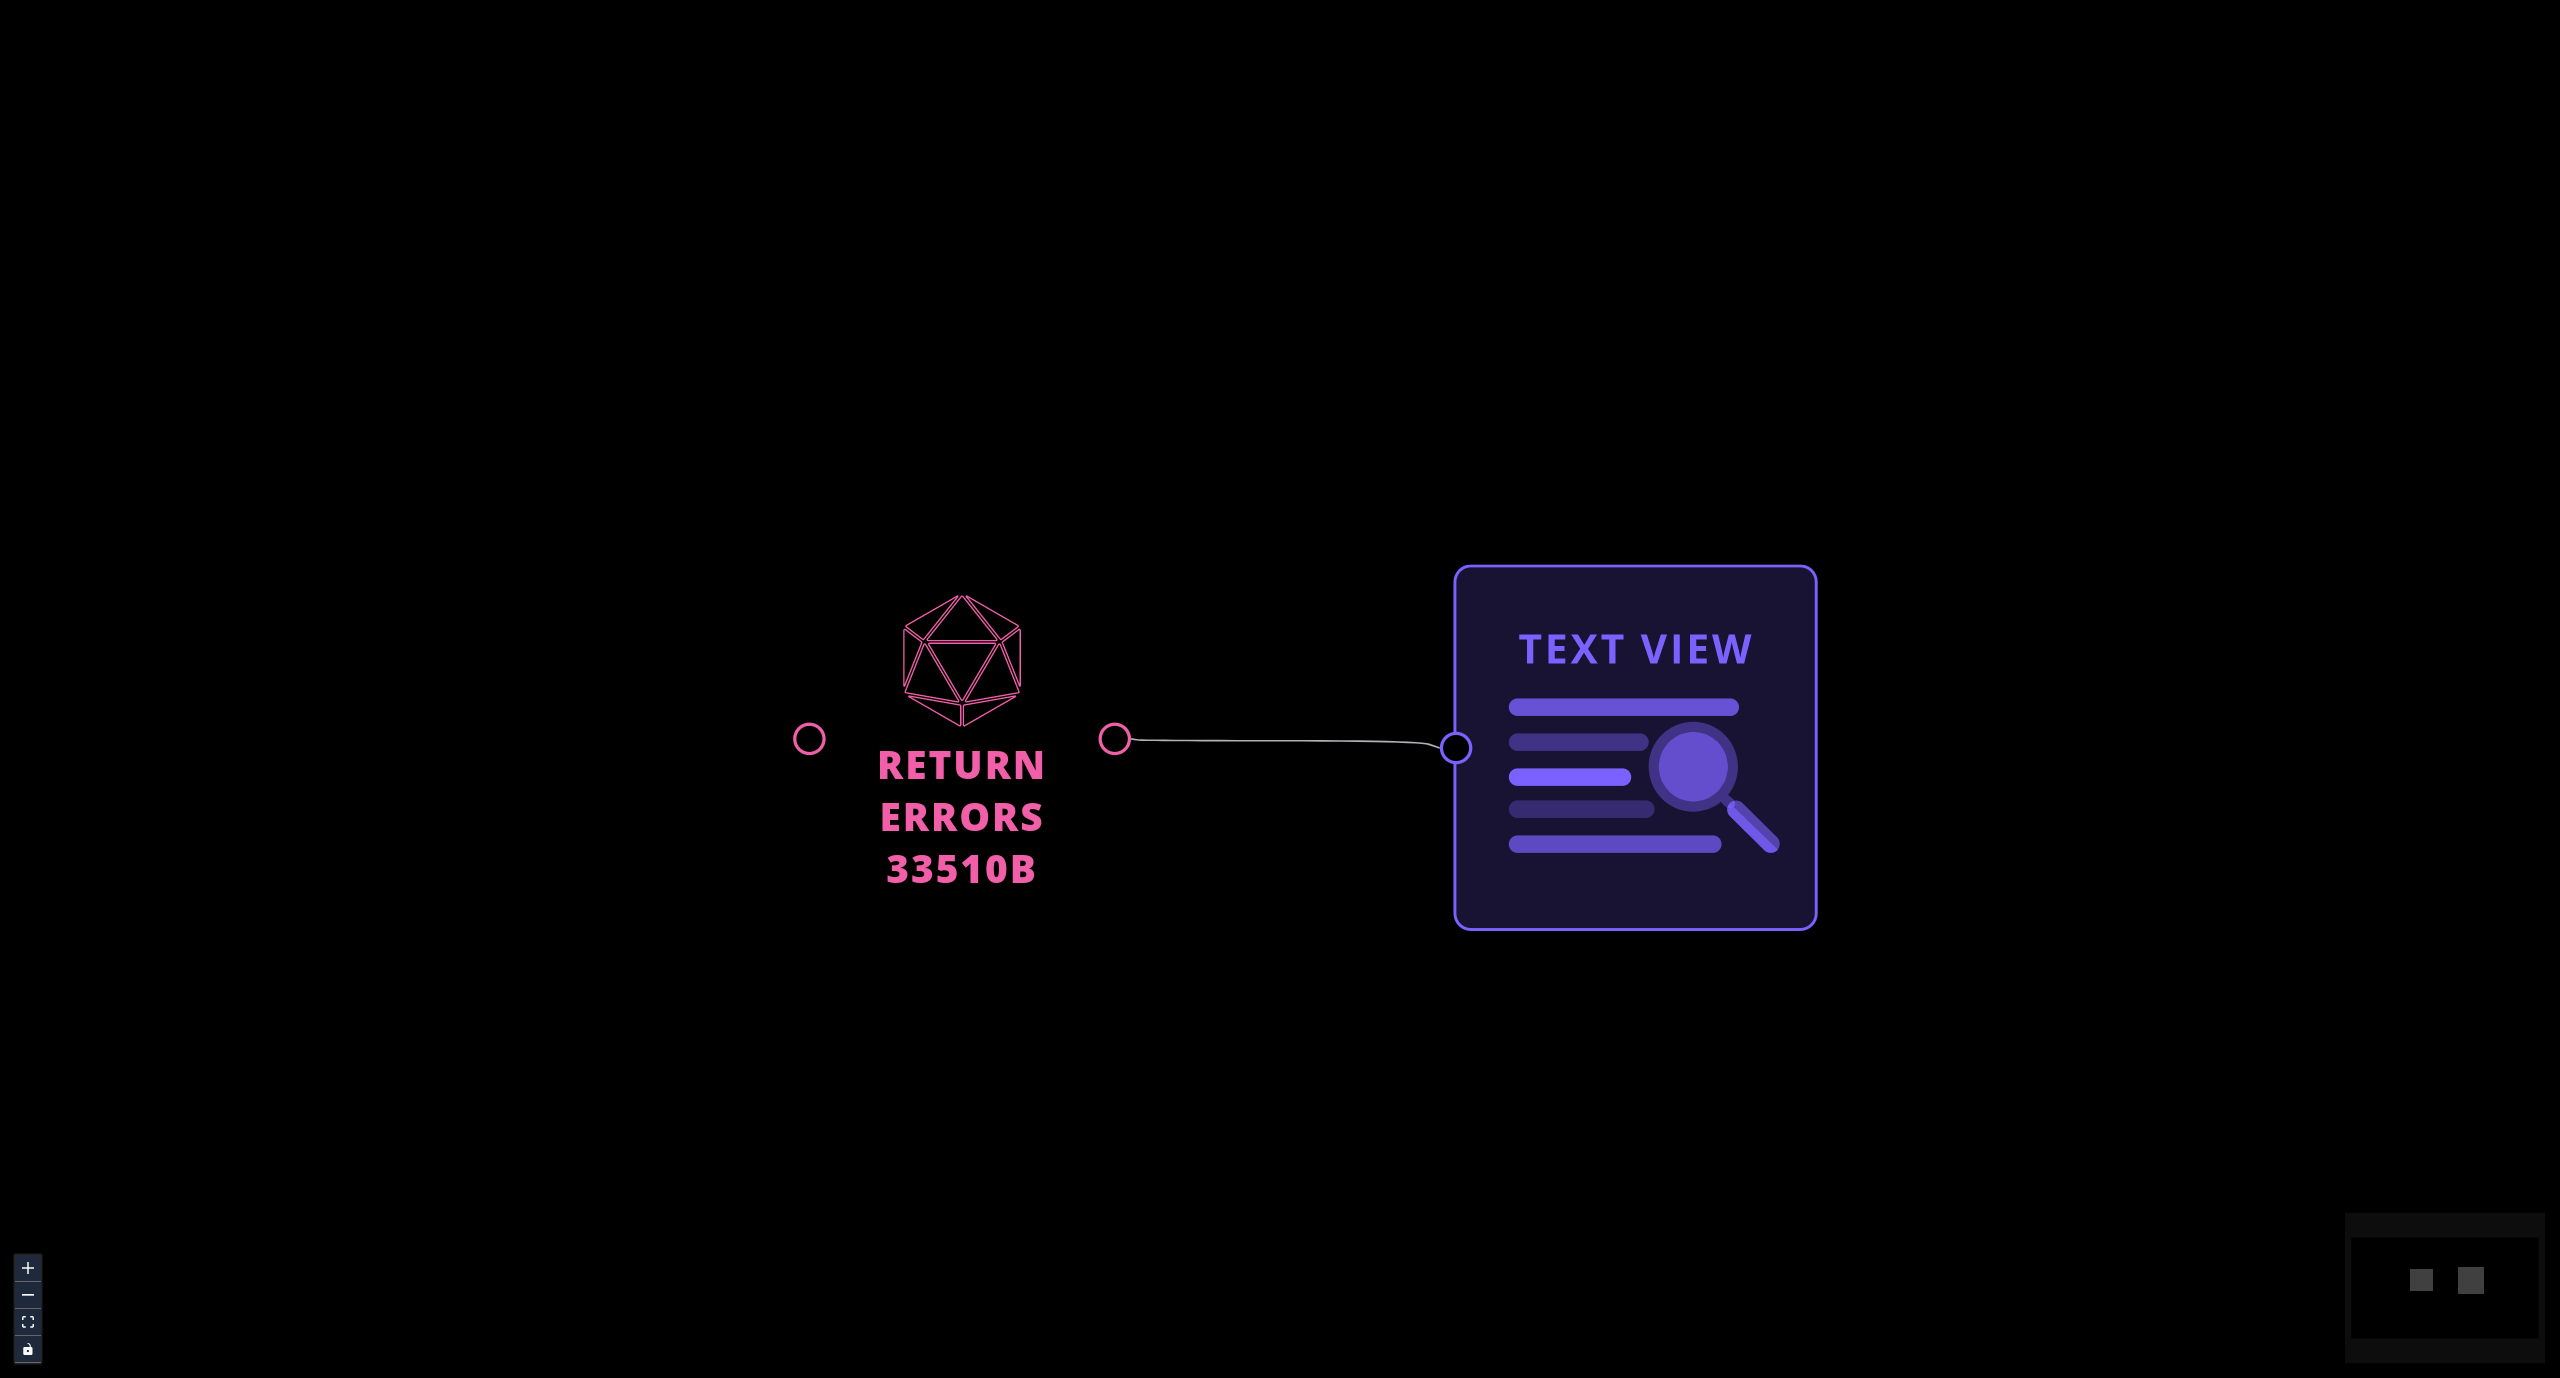
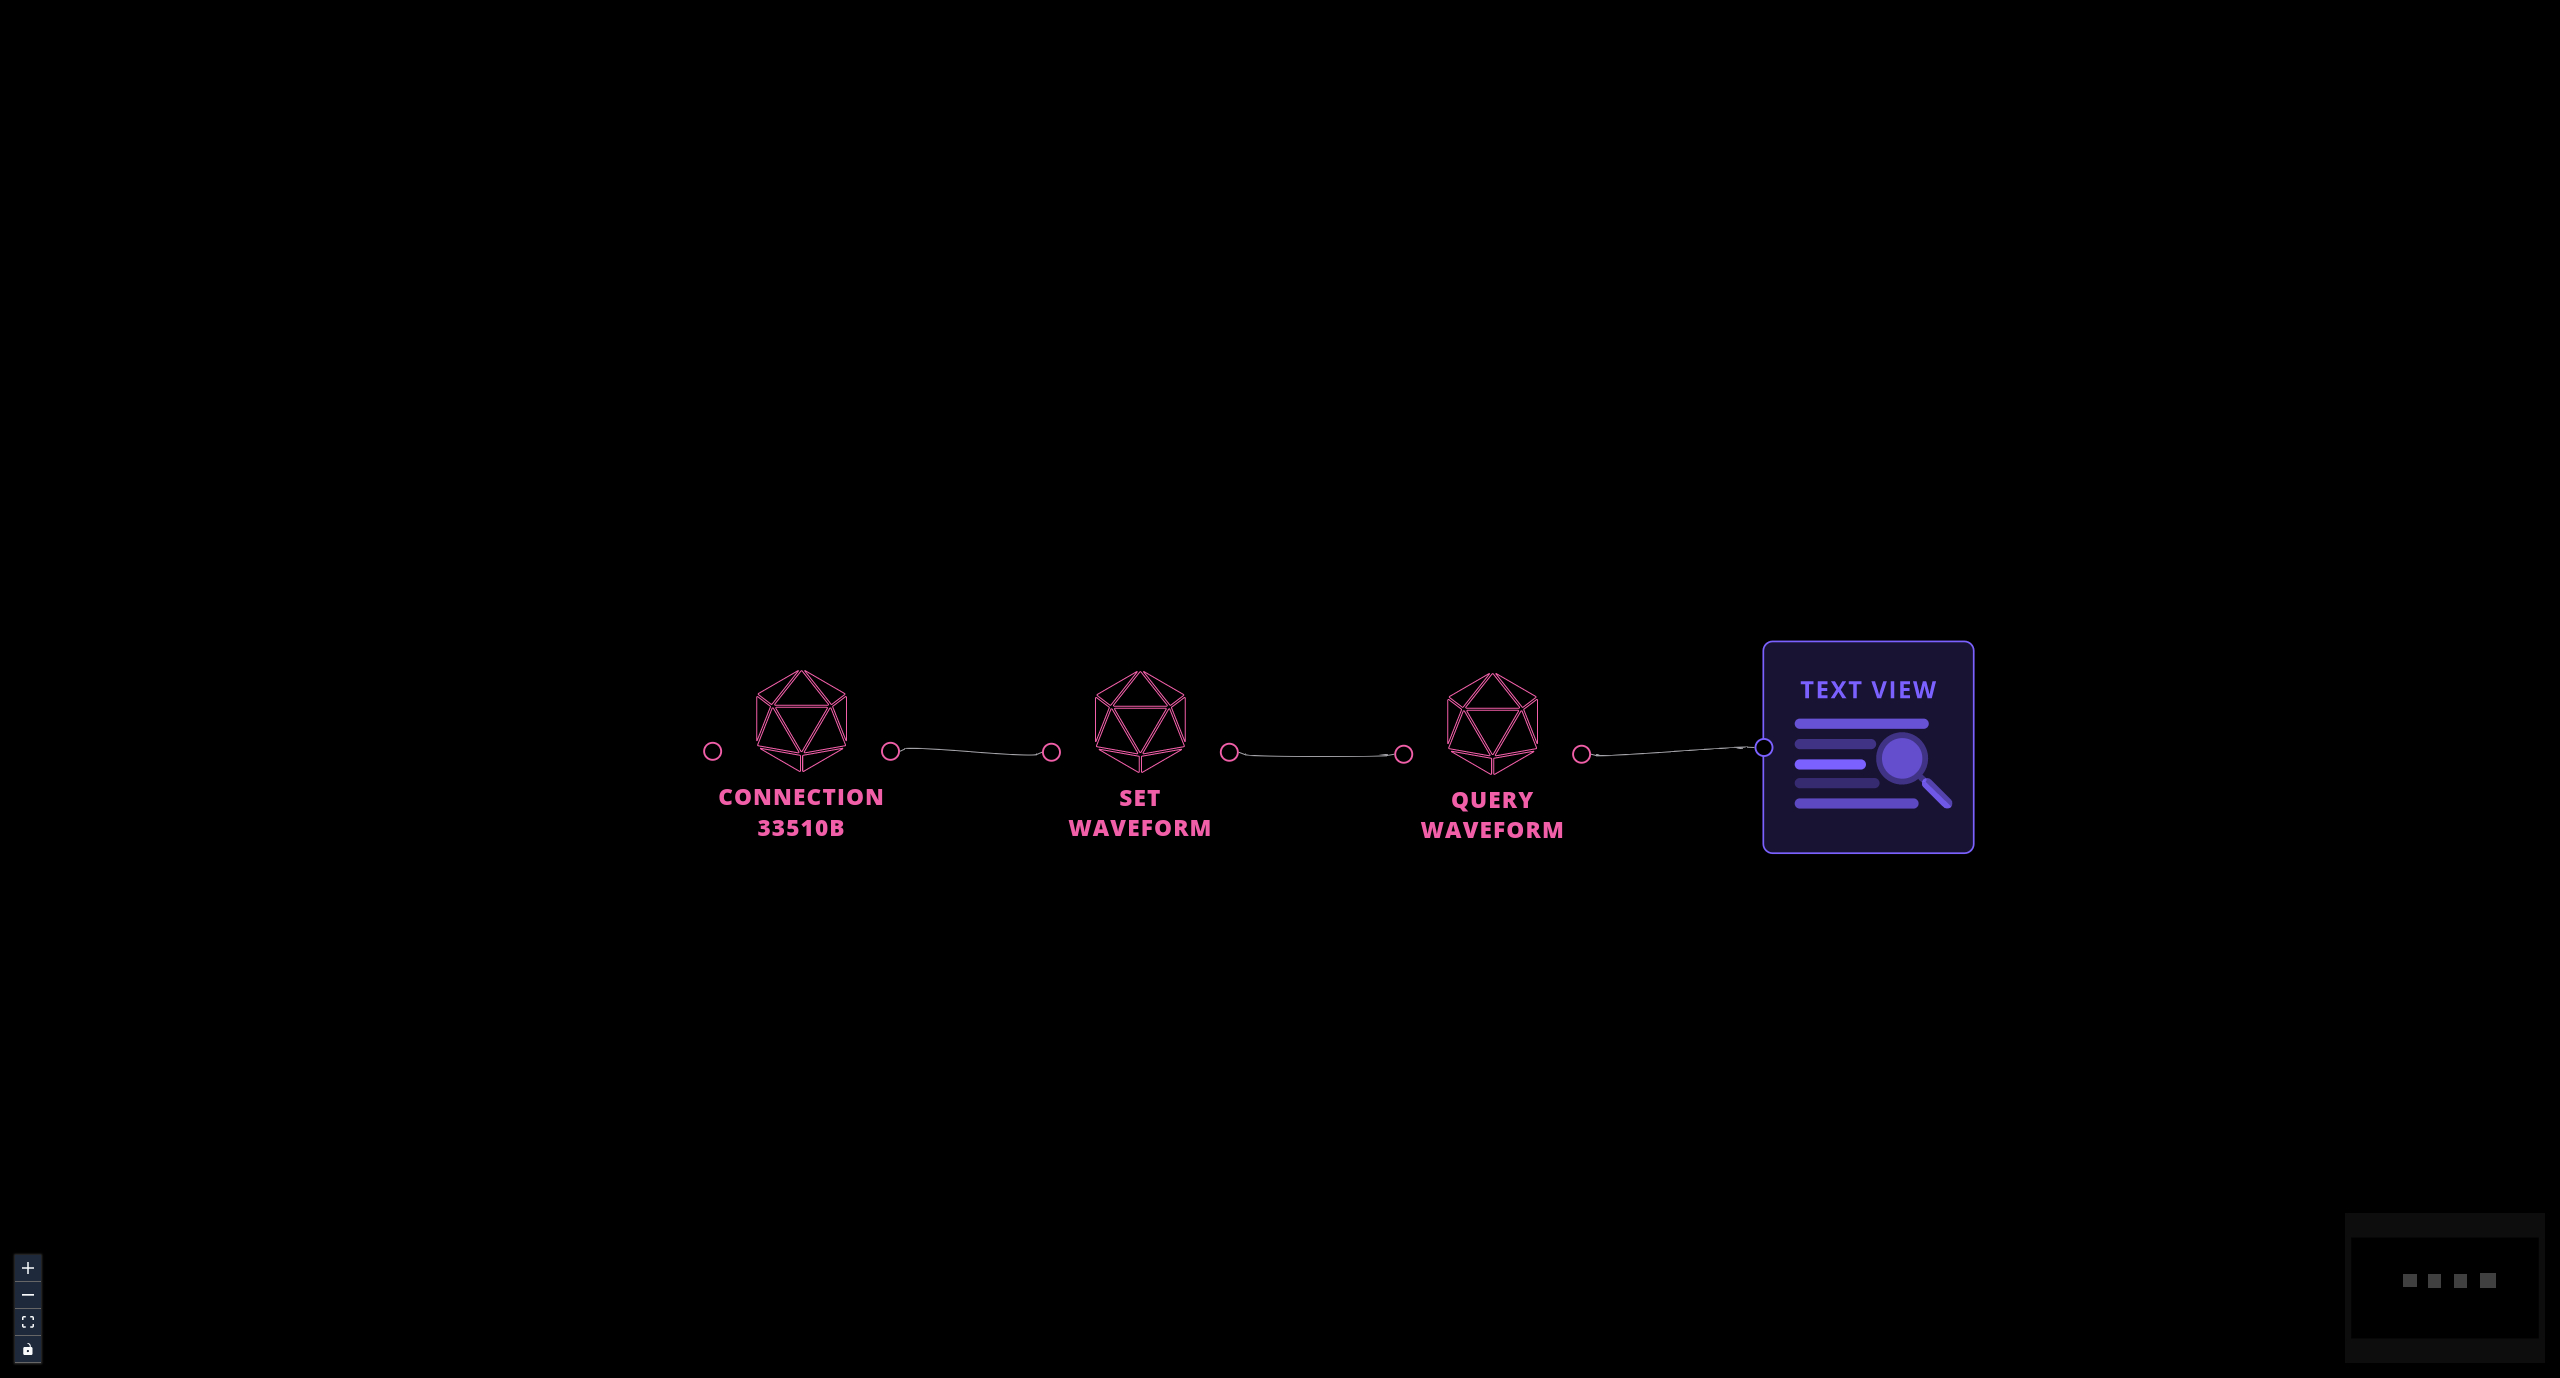
update examples

Changed region(s): [[0.5312, 0.4057, 0.7812, 0.6865], [0.2812, 0.4369, 0.5, 0.6553], [0.9375, 0.9049, 0.9688, 0.9361]]

diff --git a/docs/nodes/IO/INSTRUMENTS/FUNCTION_GENERATORS/KEYSIGHT/33XXX/BASIC/SET_WAVEFORM_33510B/examples/EX1/example.md b/docs/nodes/IO/INSTRUMENTS/FUNCTION_GENERATORS/KEYSIGHT/33XXX/BASIC/SET_WAVEFORM_33510B/examples/EX1/example.md
@@ -10,6 +10,10 @@ In this example, we change the waveform settings for the Keysight 33510B. The 33
 The 33510B nodes should also work with other 33XXX wavefunction generators. However, these are untested as of yet.
 :::
 
-We add two of the [`SET_WAVEFORM_33510B`](https://github.com/flojoy-ai/nodes/tree/develop/IO/INSTRUMENTS/FUNCTION_GENERATORS/KEYSIGHT/33XXX) nodes as well as the [`TEXT_VIEW`](https://github.com/flojoy-ai/nodes/blob/develop/VISUALIZERS/DATA_STRUCTURE/TEXT_VIEW/TEXT_VIEW.py) node to view the summary of the changes. We also add the `CLOSE_ALL` node at the beginning. This node can be useful when the instrument remains connected to a previous usage/app. The first `SET_WAVEFORM_33510B` is used to set the parameters while the second is used to query the instrument to ensure the wavefunction parameters are correct.
+We must first add the [`CONNECTION_33510B`](https://github.com/flojoy-ai/nodes/tree/develop/IO/INSTRUMENTS/FUNCTION_GENERATORS/KEYSIGHT/33XXX) node. This will create the connection to the instrument at the beginning of the app. To allow this we must set the `VISA address` for this (and all subsequent `33510B` nodes). If the address does not appear in the parameters you may have to press `REFRESH` in the `HARDWARE MANAGER` tab.
 
-We then must set the node parameters. First, the VISA address must be set. This can be found using the [`LIST_VISA`](https://github.com/flojoy-ai/nodes/blob/develop/IO/INSTRUMENTS/QCODES/LIST_VISA/LIST_VISA.py) node (alternatively you can use the VISA index but this is slower). The waveform settings were changed as follows: waveform: SIN, amplitude: 0.2, amplitude units: Vpp, frequency: 1e7 Hz, on_off: on, query_set: set. The second node only needs to ensure the query_set parameter is set to `query`.
+We then add two of the [`SET_WAVEFORM_33510B`](https://github.com/flojoy-ai/nodes/tree/develop/IO/INSTRUMENTS/FUNCTION_GENERATORS/KEYSIGHT/33XXX) nodes as well as the [`TEXT_VIEW`](https://github.com/flojoy-ai/nodes/blob/develop/VISUALIZERS/DATA_STRUCTURE/TEXT_VIEW/TEXT_VIEW.py) node to view the summary of the changes. The first `SET_WAVEFORM_33510B` is used to set the parameters while the second is used to query the instrument to ensure the wavefunction parameters are correct. This can be done with the `set_query` parameter for the nodes. 
+
+We then must set the node parameters. First, the VISA address must be set for all nodes as mentioned above. The waveform settings were changed as follows: waveform: SIN, amplitude: 0.2, amplitude units: Vpp, frequency: 1e7 Hz, on_off: on, query_set: set. The second node only needs to ensure the query_set parameter is set to `query` (as well as the VISA address).
+
+The `33510B` cannot view the waveform directly. An oscilloscope can be used optionally. to view the burst mode waveform.

diff --git a/docs/nodes/IO/INSTRUMENTS/FUNCTION_GENERATORS/KEYSIGHT/33XXX/BASIC/OUTPUT_SYNC_33510B/examples/EX1/example.md b/docs/nodes/IO/INSTRUMENTS/FUNCTION_GENERATORS/KEYSIGHT/33XXX/BASIC/OUTPUT_SYNC_33510B/examples/EX1/example.md
@@ -10,6 +10,8 @@ In this example, we sync the waveform output phases generation for a Keysight 33
 The 33510B nodes should also work with other 33XXX wavefunction generators. However, these are untested as of yet.
 :::
 
-We add the [`OUTPUT_SYNC_33510B`](https://github.com/flojoy-ai/nodes/tree/develop/IO/INSTRUMENTS/FUNCTION_GENERATORS/KEYSIGHT/33XXX) node as well as the [`TEXT_VIEW`](https://github.com/flojoy-ai/nodes/blob/develop/VISUALIZERS/DATA_STRUCTURE/TEXT_VIEW/TEXT_VIEW.py) node to view the summary of the changes. We also add the `CLOSE_ALL` node at the beginning. This node can be useful when the instrument remains connected to a previous usage/app.
+We must first add the [`CONNECTION_33510B`](https://github.com/flojoy-ai/nodes/tree/develop/IO/INSTRUMENTS/FUNCTION_GENERATORS/KEYSIGHT/33XXX) node. This will create the connection to the instrument at the beginning of the app. To allow this we must set the `VISA address` for this (and all subsequent `33510B` nodes). If the address does not appear in the parameters you may have to press `REFRESH` in the `HARDWARE MANAGER` tab.
 
-We then must set the node parameters. First the VISA address must be set. This can be found using the [`LIST_VISA`](https://github.com/flojoy-ai/nodes/blob/develop/IO/INSTRUMENTS/QCODES/LIST_VISA/LIST_VISA.py) node (alternatively you can use the VISA index but this is slower). Then the baseline channel must be set as well as whether to turn the output sync on or off.
+We add the [`OUTPUT_SYNC_33510B`](https://github.com/flojoy-ai/nodes/tree/develop/IO/INSTRUMENTS/FUNCTION_GENERATORS/KEYSIGHT/33XXX) node as well as the [`TEXT_VIEW`](https://github.com/flojoy-ai/nodes/blob/develop/VISUALIZERS/DATA_STRUCTURE/TEXT_VIEW/TEXT_VIEW.py) node to view the summary of the changes.
+
+We then must set the node parameters. First, the VISA address must be set for all nodes as mentioned above. Then the reference channel must be set as well as whether to turn the output sync on or off. You can also use this node to query the current output sync settings on the instrument.

diff --git a/docs/nodes/IO/INSTRUMENTS/FUNCTION_GENERATORS/KEYSIGHT/33XXX/BASIC/ON_OFF_33510B/examples/EX1/example.md b/docs/nodes/IO/INSTRUMENTS/FUNCTION_GENERATORS/KEYSIGHT/33XXX/BASIC/ON_OFF_33510B/examples/EX1/example.md
@@ -10,8 +10,6 @@ In this example, we turn the wavefunction generation of a Keysight 33510B on.
 The 33510B nodes should also work with other 33XXX wavefunction generators. However, these are untested as of yet.
 :::
 
-We add the [`ON_OFF_33510B`](https://github.com/flojoy-ai/nodes/tree/develop/IO/INSTRUMENTS/FUNCTION_GENERATORS/KEYSIGHT/33XXX) node as well as the [`TEXT_VIEW`](https://github.com/flojoy-ai/nodes/blob/develop/VISUALIZERS/DATA_STRUCTURE/TEXT_VIEW/TEXT_VIEW.py) node to view the summary of the changes.
+We must first add the [`CONNECTION_33510B`](https://github.com/flojoy-ai/nodes/tree/develop/IO/INSTRUMENTS/FUNCTION_GENERATORS/KEYSIGHT/33XXX) node. This will create the connection to the instrument at the beginning of the app. To allow this we must set the `VISA address` for this (and all subsequent `33510B` nodes). If the address does not appear in the parameters you may have to press `REFRESH` in the `HARDWARE MANAGER` tab.
 
-We then must set the node parameters. First the VISA address must be set. This can be found using the [`LIST_VISA`](https://github.com/flojoy-ai/nodes/blob/develop/IO/INSTRUMENTS/QCODES/LIST_VISA/LIST_VISA.py) node (alternatively you can use the VISA index but this is slower). Then the channel to change must be set as well as changing `on_off` to `on`. 
-
-The node simply turns the wavefunction generation on or off for the chosen channel. In this example we turn Channel 1 (`ch1`) on and Channel 2 (`ch2`) off.
+We add two [`ON_OFF_33510B`](https://github.com/flojoy-ai/nodes/tree/develop/IO/INSTRUMENTS/FUNCTION_GENERATORS/KEYSIGHT/33XXX) nodes as well as the [`TEXT_VIEW`](https://github.com/flojoy-ai/nodes/blob/develop/VISUALIZERS/DATA_STRUCTURE/TEXT_VIEW/TEXT_VIEW.py) node to view the summary of the changes for each one. For the two `ON_OFF_33510B` we change the channel parameter (to `ch1` and `ch2`) to as well as changing `on_off`. The node simply turns the wavefunction generation on or off for the chosen channel. In this example we turn Channel 1 (`ch1`) off and Channel 2 (`ch2`) on.

diff --git a/docs/nodes/IO/INSTRUMENTS/FUNCTION_GENERATORS/KEYSIGHT/33XXX/ADVANCED/BURST_MODE_33510B/examples/EX1/example.md b/docs/nodes/IO/INSTRUMENTS/FUNCTION_GENERATORS/KEYSIGHT/33XXX/ADVANCED/BURST_MODE_33510B/examples/EX1/example.md
@@ -10,8 +10,10 @@ In this example, we set the burst mode settings on a Keysight 33500B.
 The 33510B nodes should also work with other 33XXX wavefunction generators. However, these are untested as of yet.
 :::
 
+We must first add the [`CONNECTION_33510B`](https://github.com/flojoy-ai/nodes/tree/develop/IO/INSTRUMENTS/FUNCTION_GENERATORS/KEYSIGHT/33XXX) node. This will create the connection to the instrument at the beginning of the app. To allow this we must set the `VISA address` for this (and all subsequent `33510B` nodes). If the address does not appear in the parameters you may have to press `REFRESH` in the `HARDWARE MANAGER` tab.
+
 We add the [`BURST_MODE_33510B`](https://github.com/flojoy-ai/nodes/tree/develop/IO/INSTRUMENTS/FUNCTION_GENERATORS/KEYSIGHT/33XXX) node as well as the [`TEXT_VIEW`](https://github.com/flojoy-ai/nodes/blob/develop/VISUALIZERS/DATA_STRUCTURE/TEXT_VIEW/TEXT_VIEW.py) node to view the summary of the burst mode.
 
-We then must set the `burst mode` settings. First the VISA address must be set. This can be found using the [`LIST_VISA`](https://github.com/flojoy-ai/nodes/blob/develop/IO/INSTRUMENTS/QCODES/LIST_VISA/LIST_VISA.py) node (alternatively you can use the VISA index but this is slower). Then you can set the trigger method to `TIM` (i.e. timed) and `ncycles` to 5.
+We then must set the node parameters. First, the VISA address must be set for all nodes as mentioned above. We then must set the `burst mode` settings. Then you can set the trigger method to `TIM` (i.e. timed) and `ncycles` to 5.
 
-The `33510B` cannot view the waveform directly. An oscilloscope can be used optionally. to view the waveform.
+The `33510B` cannot view the waveform directly. An oscilloscope can be used optionally. to view the burst mode waveform.

diff --git a/docs/nodes/IO/INSTRUMENTS/FUNCTION_GENERATORS/KEYSIGHT/33XXX/BASIC/CONNECTION_33510B/examples/EX1/example.md b/docs/nodes/IO/INSTRUMENTS/FUNCTION_GENERATORS/KEYSIGHT/33XXX/BASIC/CONNECTION_33510B/examples/EX1/example.md
@@ -1,0 +1,15 @@
+---
+title: Waveform Generator Connection
+description: The CONNECTIONS_33510B node is used to connect to a 33510B WFG.
+keywords: [Python, Instrument Control, Keysight, Wavefunction Generator, Function Generator, Keysight 33500B]
+---
+
+In this example, we turn the wavefunction generation of a Keysight 33510B on.
+
+:::note
+The 33510B nodes should also work with other 33XXX wavefunction generators. However, these are untested as of yet.
+:::
+
+We must first add the [`CONNECTION_33510B`](https://github.com/flojoy-ai/nodes/tree/develop/IO/INSTRUMENTS/FUNCTION_GENERATORS/KEYSIGHT/33XXX) node. This will create the connection to the instrument at the beginning of the app. To allow this we must set the `VISA address` for this (and all subsequent `33510B` nodes). If the address does not appear in the parameters you may have to press `REFRESH` in the `HARDWARE MANAGER` tab.
+
+We add two [`ON_OFF_33510B`](https://github.com/flojoy-ai/nodes/tree/develop/IO/INSTRUMENTS/FUNCTION_GENERATORS/KEYSIGHT/33XXX) nodes as well as the [`TEXT_VIEW`](https://github.com/flojoy-ai/nodes/blob/develop/VISUALIZERS/DATA_STRUCTURE/TEXT_VIEW/TEXT_VIEW.py) node to view the summary of the changes for each one. For the two `ON_OFF_33510B` we change the channel parameter (to `ch1` and `ch2`) to as well as changing `on_off`. The node simply turns the wavefunction generation on or off for the chosen channel. In this example we turn Channel 1 (`ch1`) off and Channel 2 (`ch2`) on.

diff --git a/docs/nodes/IO/INSTRUMENTS/FUNCTION_GENERATORS/KEYSIGHT/33XXX/ADVANCED/RETURN_ERRORS_33510B/examples/EX1/example.md b/docs/nodes/IO/INSTRUMENTS/FUNCTION_GENERATORS/KEYSIGHT/33XXX/ADVANCED/RETURN_ERRORS_33510B/examples/EX1/example.md
@@ -10,8 +10,8 @@ In this example, we return errors that the Keysight 33510B has generated.
 The 33510B nodes should also work with other 33XXX wavefunction generators. However, these are untested as of yet.
 :::
 
+We must first add the [`CONNECTION_33510B`](https://github.com/flojoy-ai/nodes/tree/develop/IO/INSTRUMENTS/FUNCTION_GENERATORS/KEYSIGHT/33XXX) node. This will create the connection to the instrument at the beginning of the app. To allow this we must set the `VISA address` for this (and all subsequent `33510B` nodes). If the address does not appear in the parameters you may have to press `REFRESH` in the `HARDWARE MANAGER` tab.
+
 We add the [`RETURN_ERRORS_33510B`](https://github.com/flojoy-ai/nodes/tree/develop/IO/INSTRUMENTS/FUNCTION_GENERATORS/KEYSIGHT/33XXX) node as well as the [`TEXT_VIEW`](https://github.com/flojoy-ai/nodes/blob/develop/VISUALIZERS/DATA_STRUCTURE/TEXT_VIEW/TEXT_VIEW.py) node to view the summary of the error.
 
-irst the VISA address must be set. This can be found using the [`LIST_VISA`](https://github.com/flojoy-ai/nodes/blob/develop/IO/INSTRUMENTS/QCODES/LIST_VISA/LIST_VISA.py) node (alternatively you can use the VISA index but this is slower).
-
-In this case `No error` is returned, but in the case of an actual error, the specific error will appear.
+In this case `0 No error` is returned, but in the case of an actual error, the specific error will appear.
